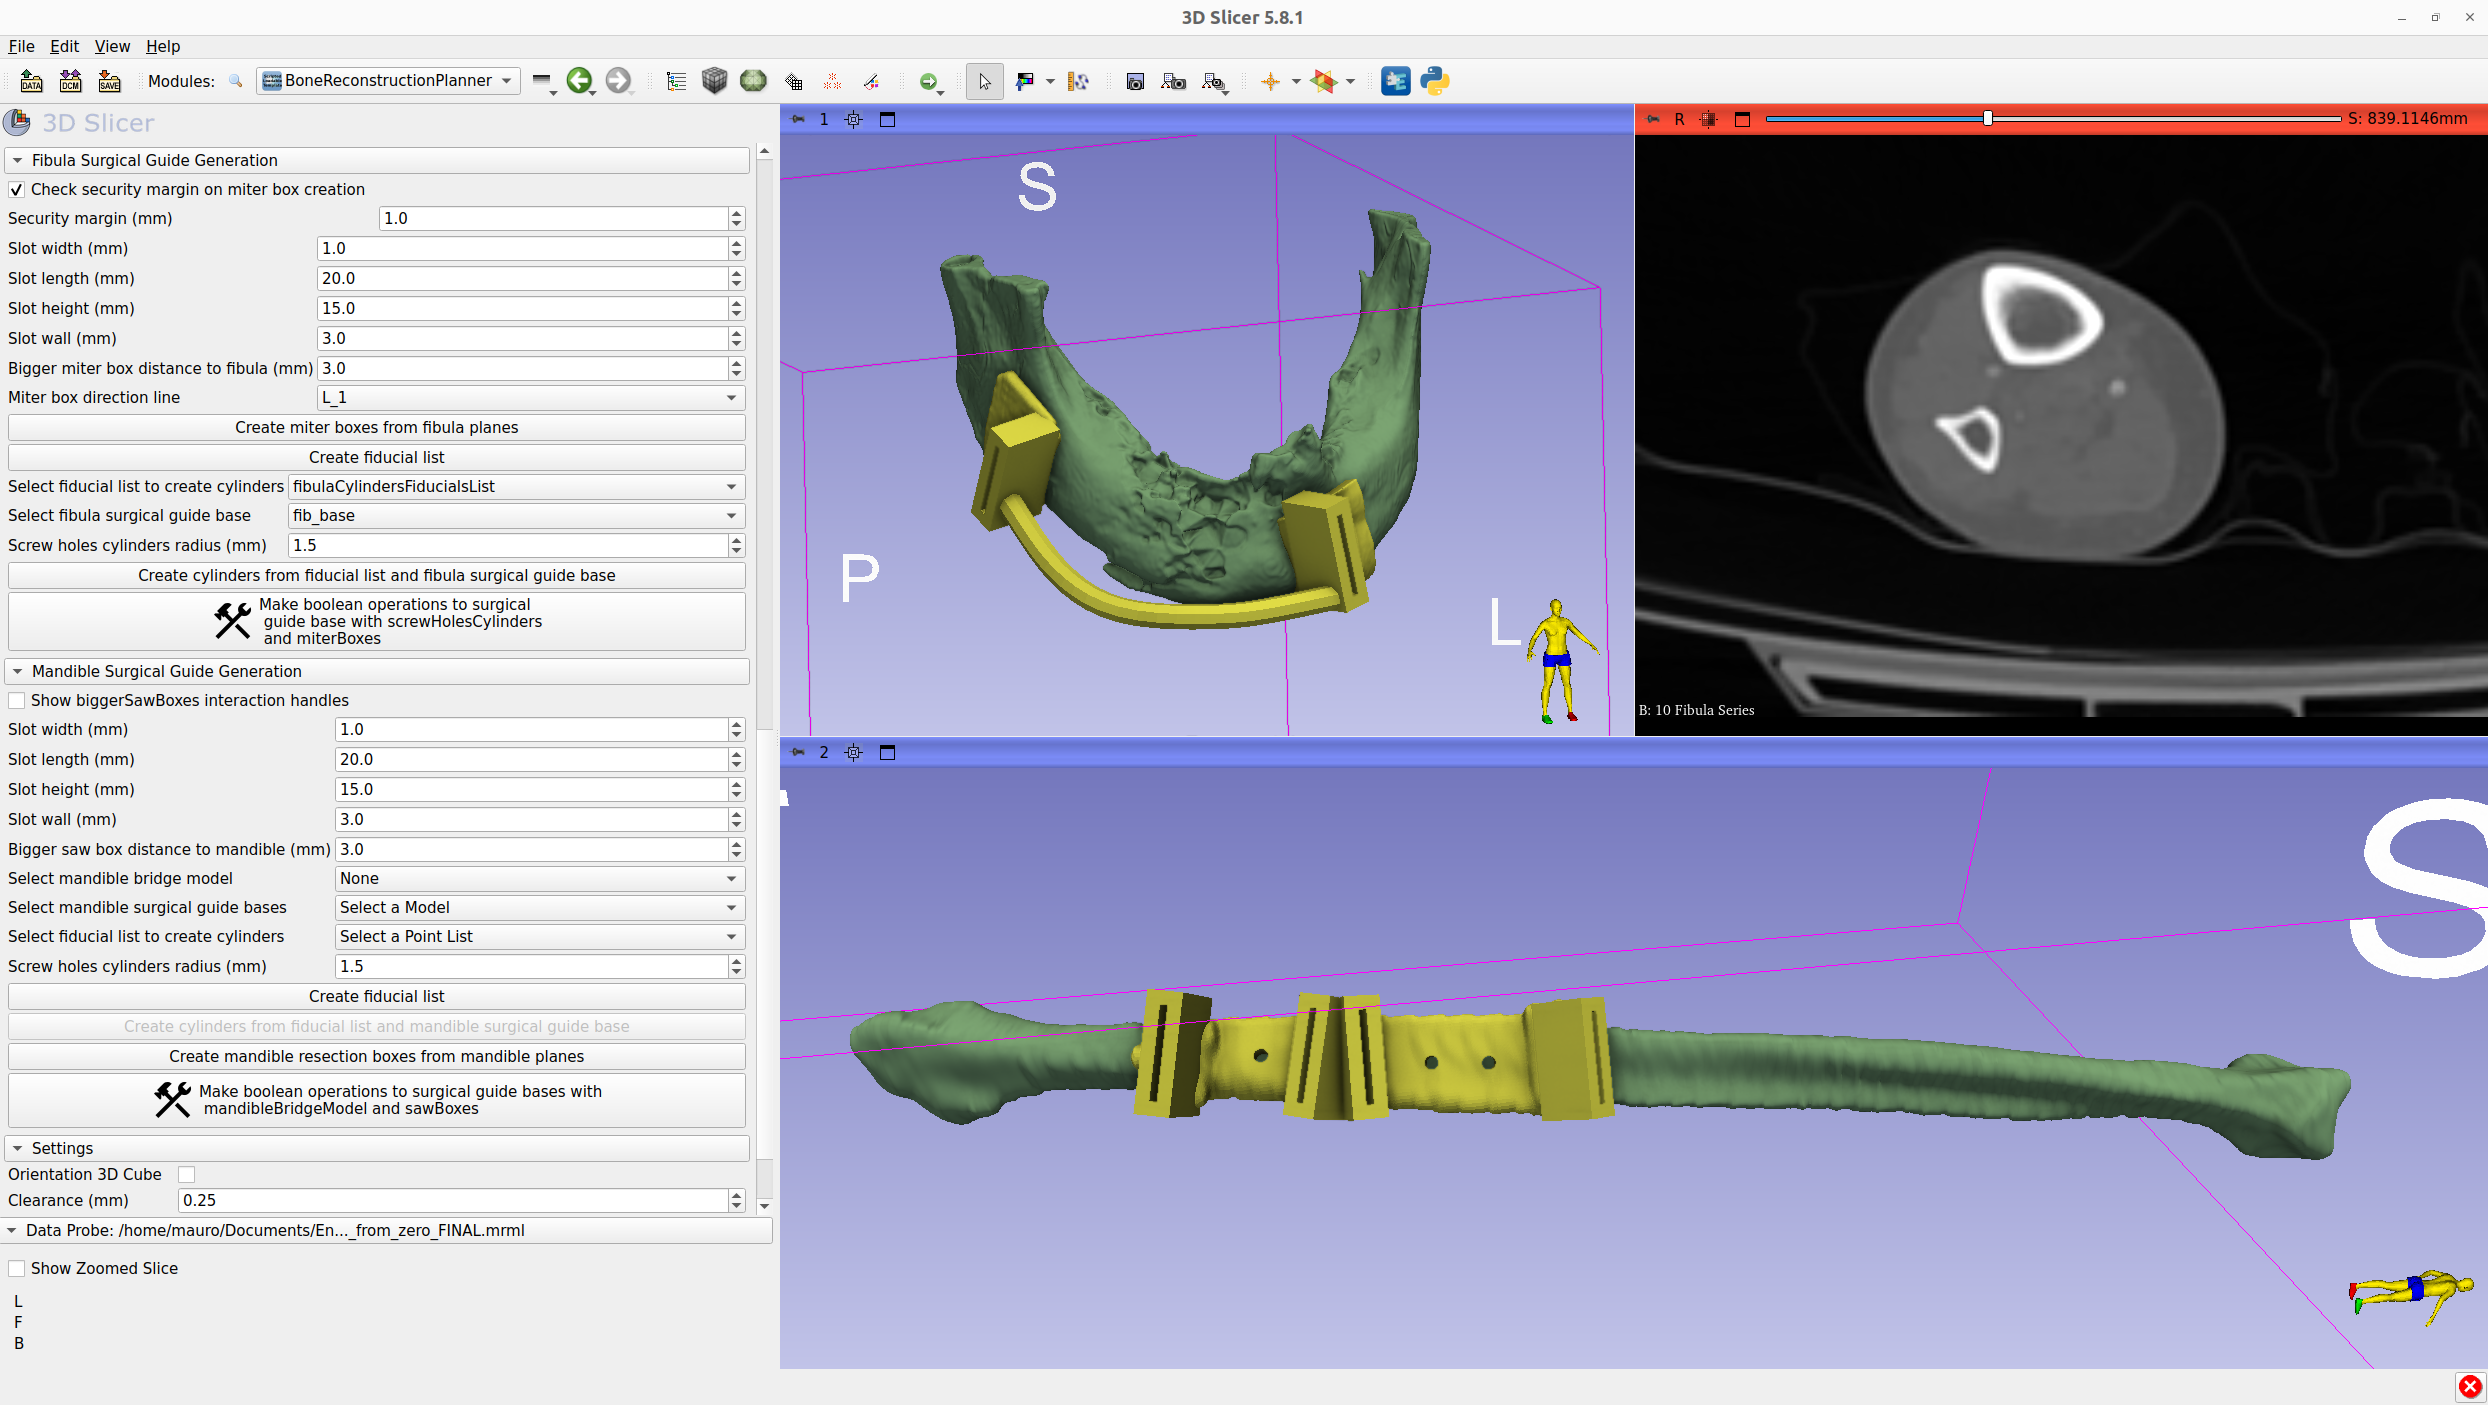
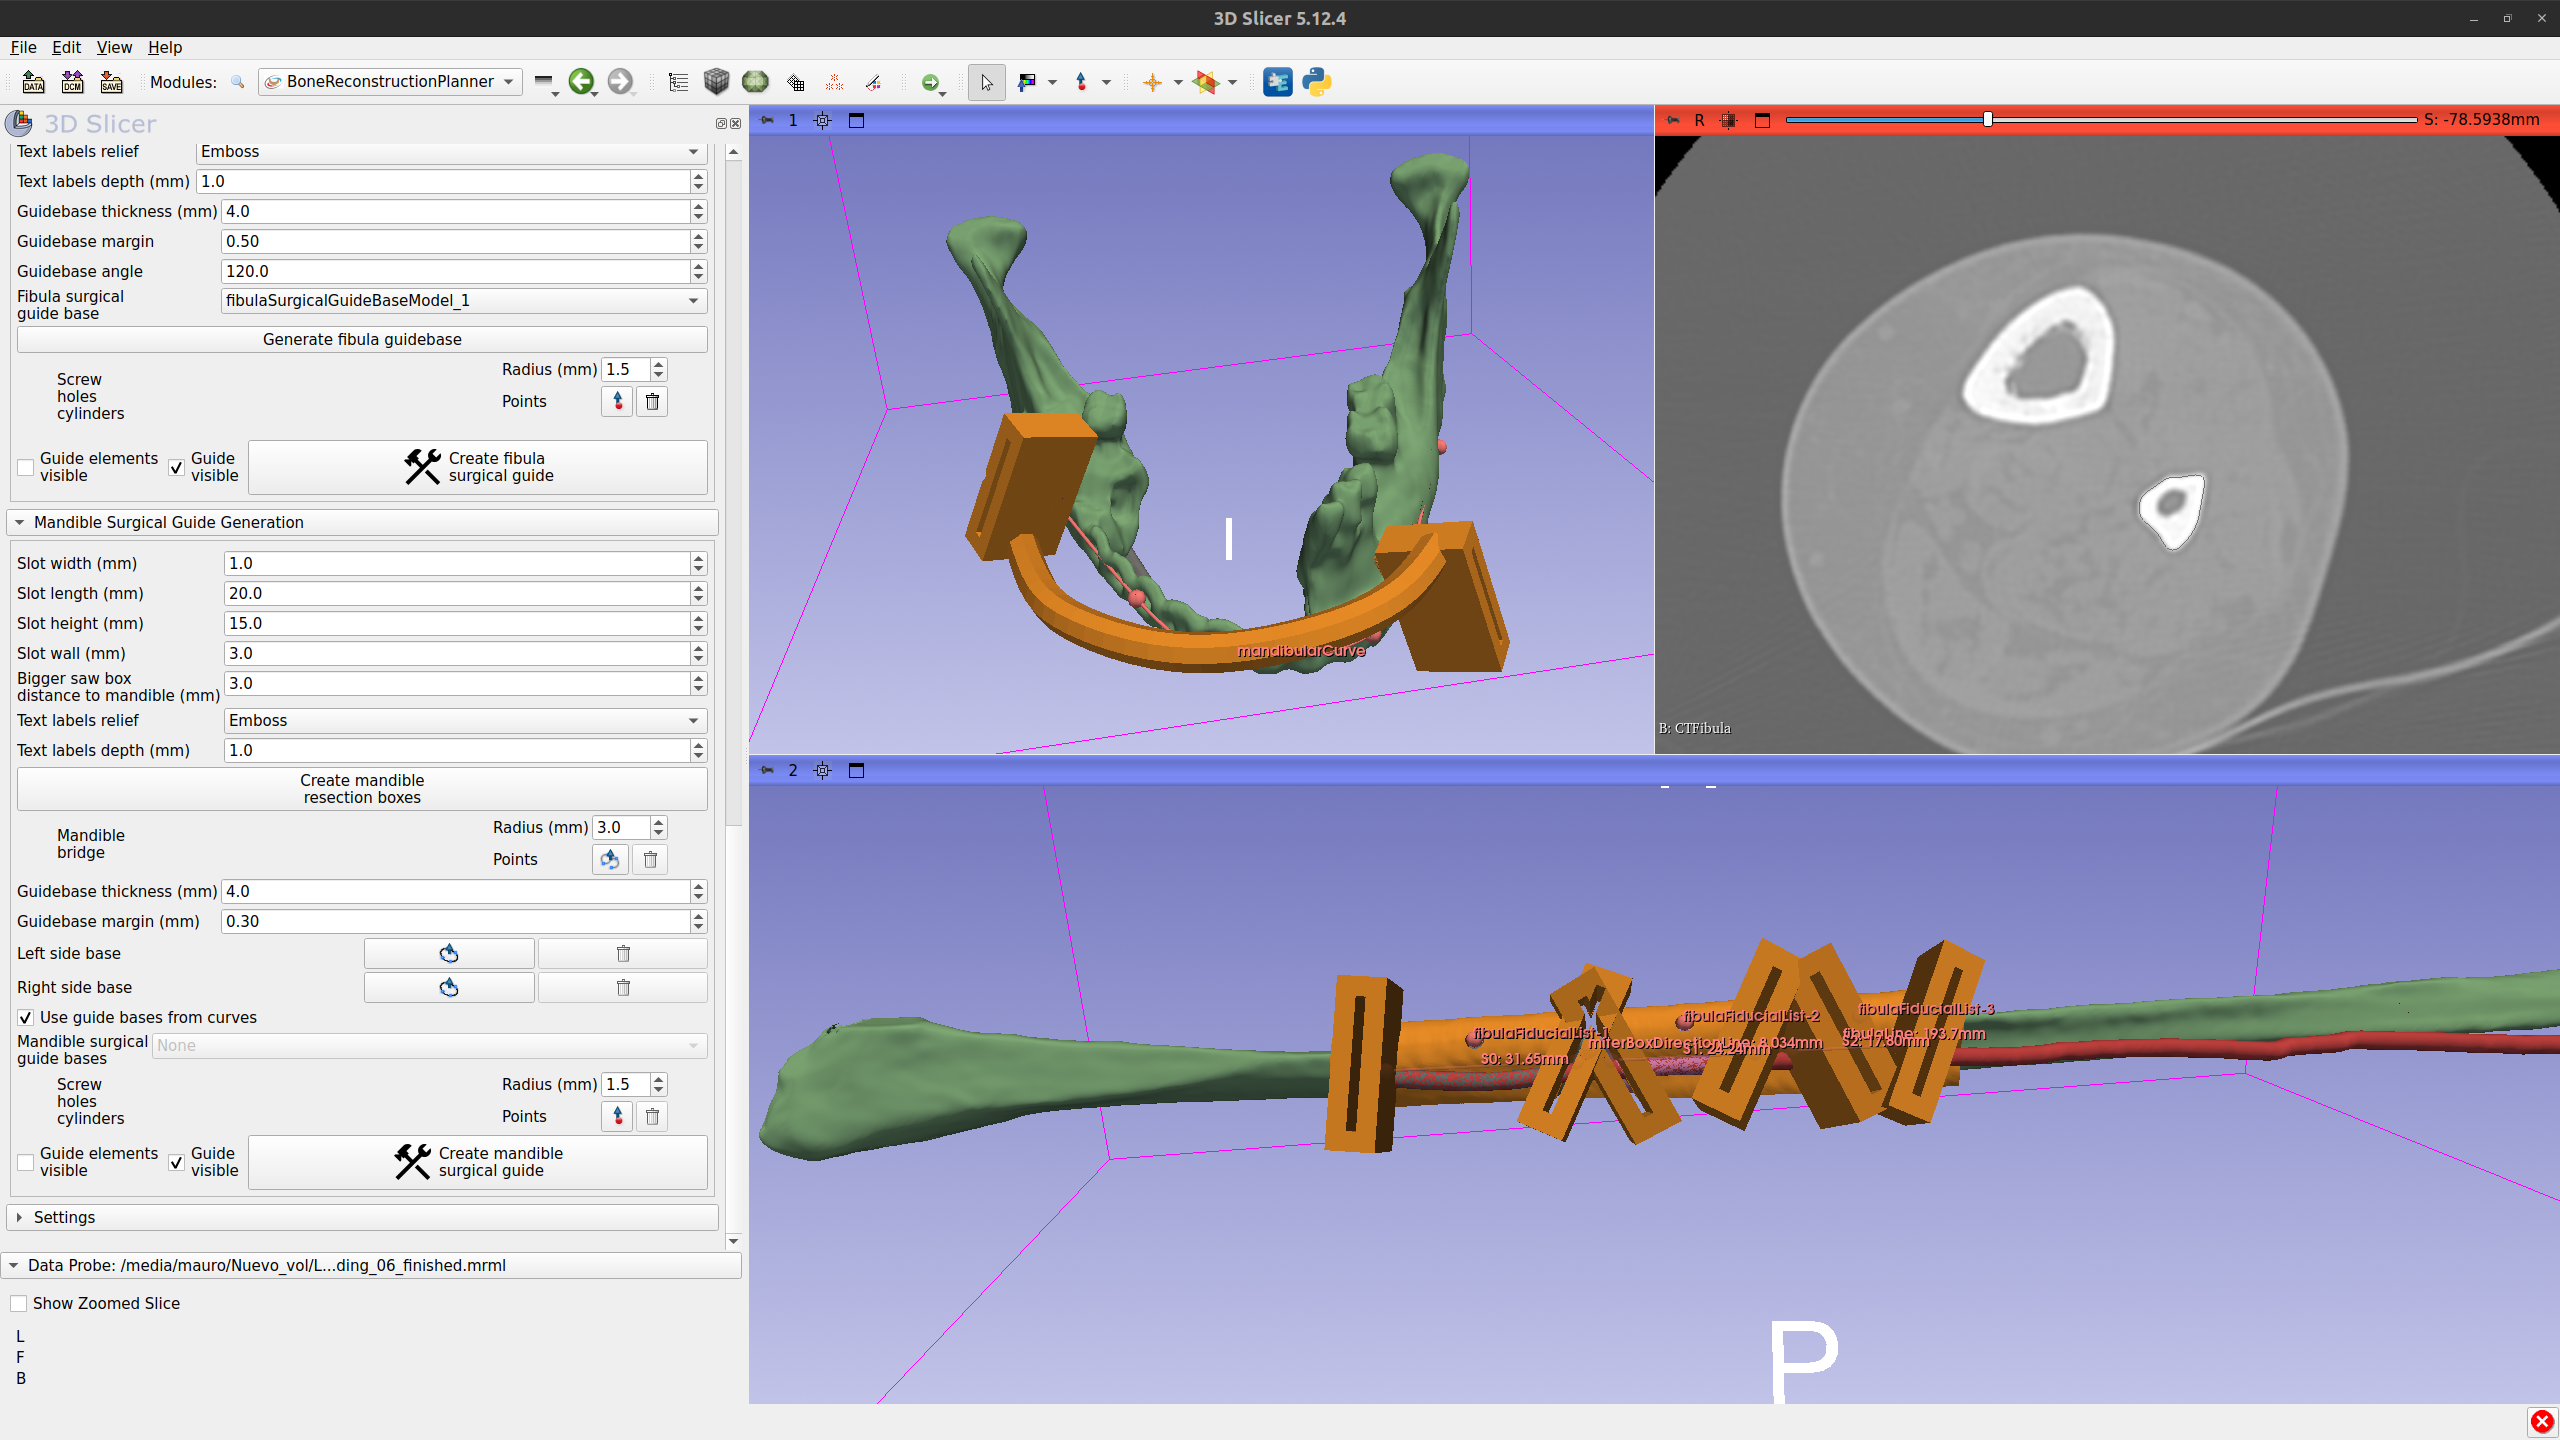
DOC: update the documentation screenshots and videotutorial links

diff --git a/README.md b/README.md
@@ -146,15 +146,15 @@ qualified technician
 <table>
 <tr>
 <td align ="center">Teaser</td>
-<td align ="center">Tutorial (will be soon redone)</td>
+<td align ="center">NEW Tutorial</td>
 </tr>
 <tr>
-<td align ="center"><img src="https://img.youtube.com/vi/wsr_g_1E_pw/0.jpg" width="500"/></td>
-<td align ="center"><img src="https://img.youtube.com/vi/g9Vql5h6uHM/0.jpg" width="500"/></td>
+<td align ="center"><img src="https://img.youtube.com/vi/VcRCMlewAes/0.jpg" width="500"/></td>
+<td align ="center"><img src="https://img.youtube.com/vi/YttOe_4no7k/0.jpg" width="500"/></td>
 </tr>
 <tr>
-<td align ="center">https://www.youtube.com/watch?v=wsr_g_1E_pw</td>
-<td align ="center">https://www.youtube.com/watch?v=g9Vql5h6uHM</td>
+<td align ="center">https://www.youtube.com/watch?v=VcRCMlewAes</td>
+<td align ="center">https://www.youtube.com/watch?v=FAH2Tbp9GTc&list=PLK3OXBXiUtxE&pp=0gcJCVMDOCosWNinsAgC</td>
 </tr>
 </table>
 
